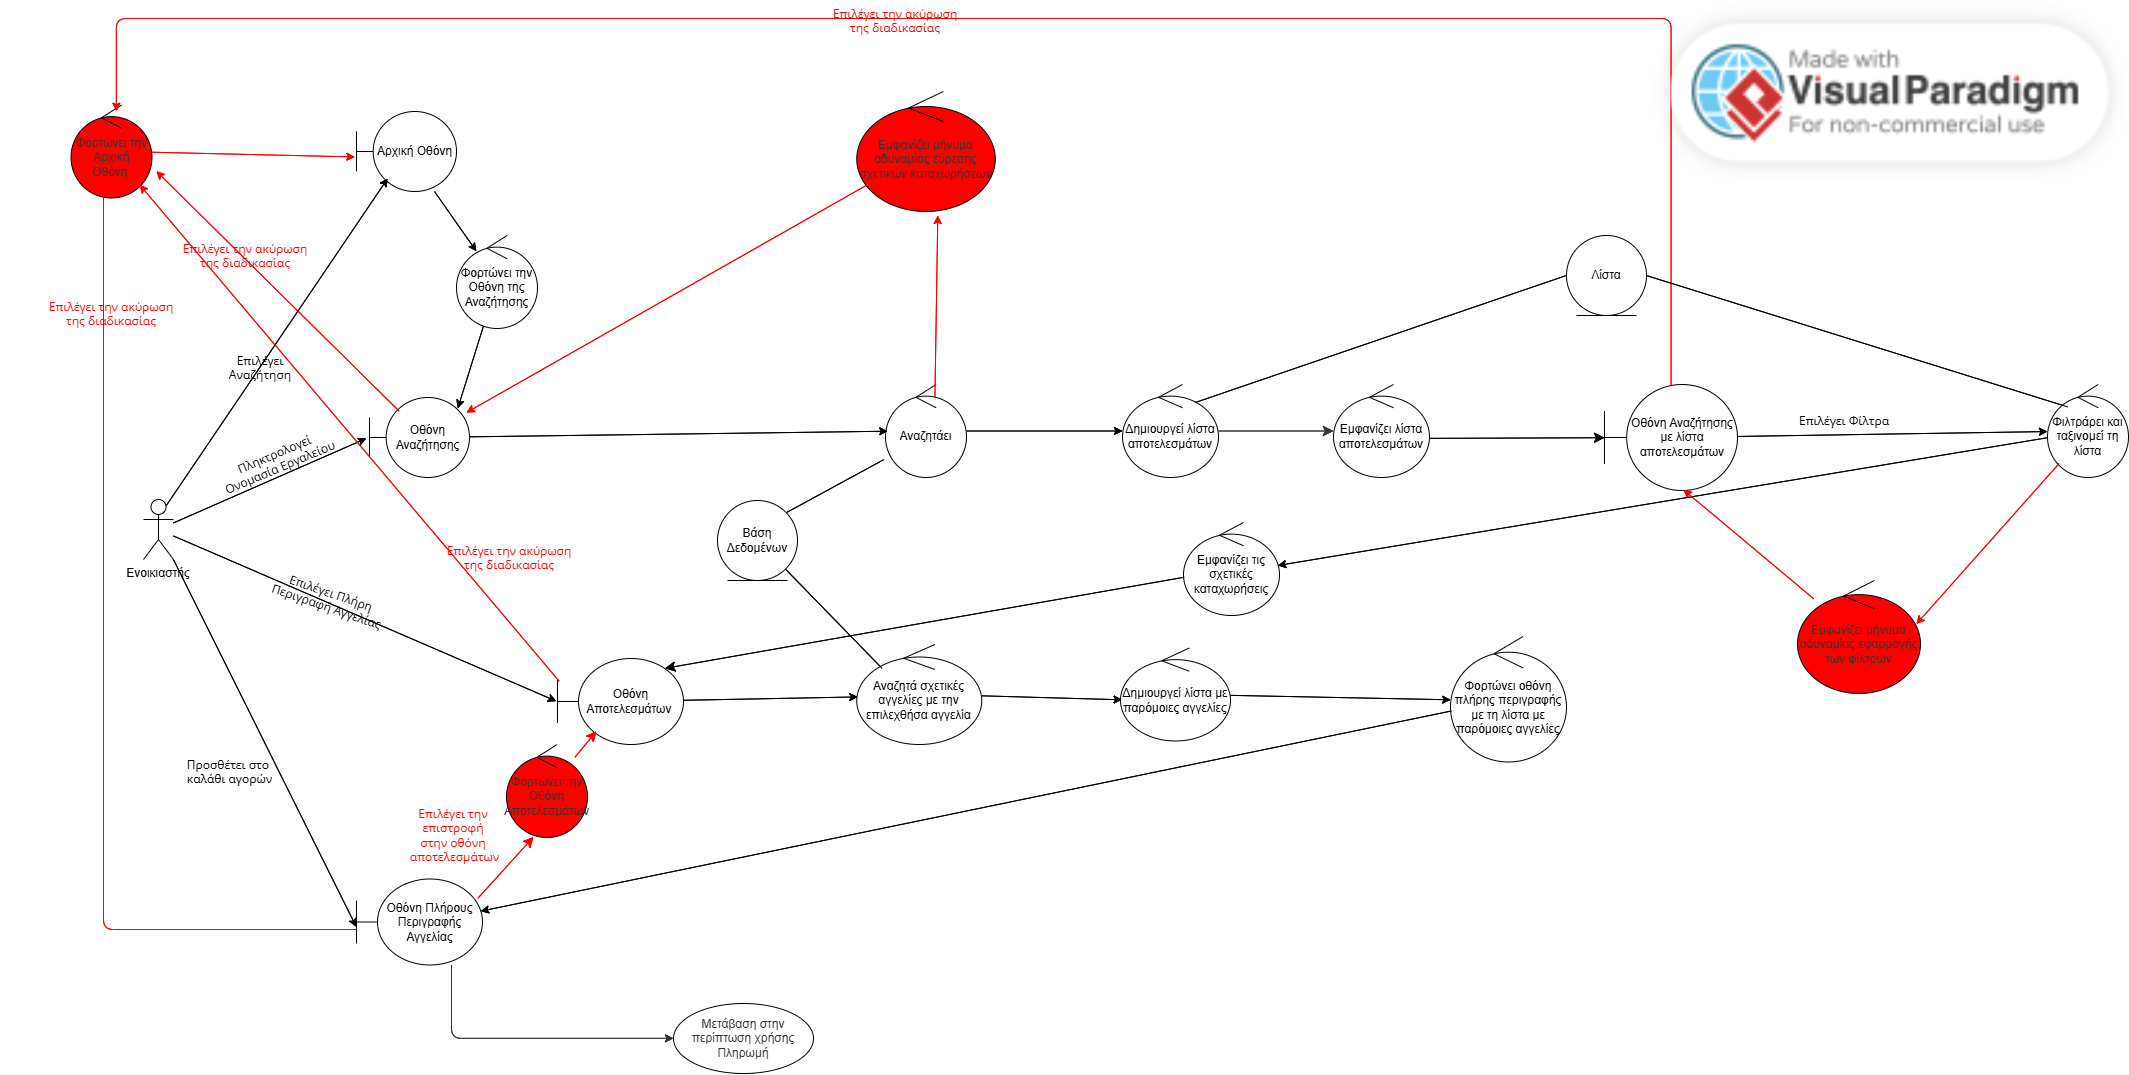
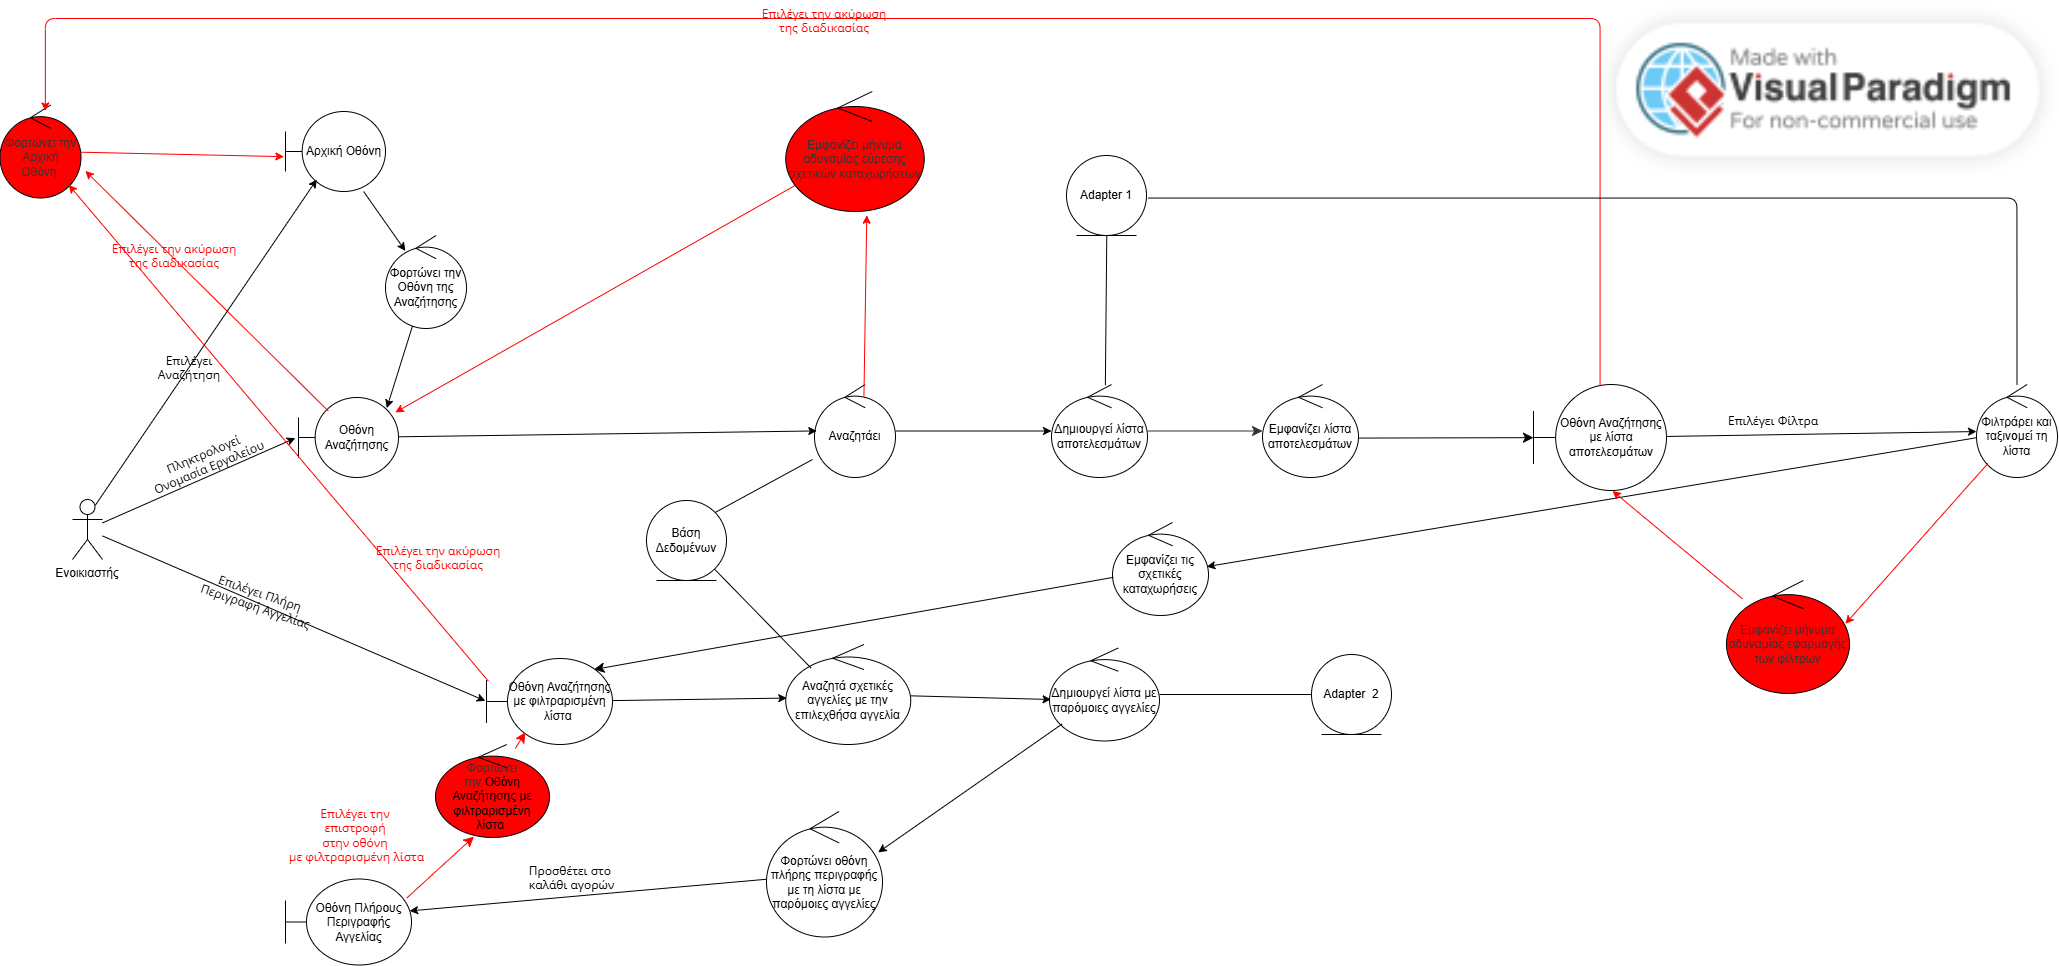
UC search -> uc, seq and robust

diff --git a/v0.3/UC_Premium/use_case.md b/v0.3/UC_Premium/use_case.md
@@ -2,7 +2,7 @@
 
 Βήματα Happy Path:
 1.  Ο ιδιοκτήτης επιλέγει το premium plan
-2.  Το σύστημα εμφανίζει τις παροχές του Premium Plan, δηλαδή Προτεραιότητα στις καταχωρήσεις (Listing Boost), Δυνατότητα προσθήκης περισσότερων εικόνων, Πρόσβαση σε analytics (προβολές, ενοικιάσεις, engagement) και Αυτόματη ανανέωση των αγγελιών
+2.  Το σύστημα εμφανίζει τις παροχές του Premium Plan, δηλαδή Προτεραιότητα στις καταχωρήσεις (Listing Boost), Δυνατότητα προσθήκης περισσότερων εικόνων, Πρόσβαση σε analytics (προβολές, ενοικιάσεις, engagement) και Αυτόματη Ανανέωση των αγγελιών
 3.  Ο ιδιοκτήτης επιλέγει την απόκτηση του πακέτου 
 4.  Το σύστημα εμφανίζει την επιλογή της διάρκεια του συνδρομητικού πλάνου (μήνας, τρίμηνο, έτος)
 5.  Ο ιδιοκτήτης επιλέγει την διάρκεια που επιθυμεί και την απόκτηση του premium plan

diff --git a/v0.3/UC_search/use_case.md b/v0.3/UC_search/use_case.md
@@ -26,7 +26,3 @@
 2.3.1 Το σύστημα αδυνατεί να κάνει αναδιάταξη των σχετικών εγγραφών, καθώς καμία δεν πληρή τα φίλτρα και ενημερώνει το χρήστη για την αδυναμία εύρεσης αποτελεσμάτων με βάση τα επιλεγμένα φίλτρα
 2.3.2 Επιστροφή στο βήμα 6 της βασικής ροής
 
-4. Καμία Αγορά (από το βήμα 11 της βασικής)
-2.4.1 Ο ενοικιαστής επιλέγει την επιστροφή στην σελίδα αναζήτησης 
-2.4.2 Το σύστημα μεταβιβάζει το χρήστη στην σελίδα αναζήτησης
-2.4.3 Μετάβαση στο βήμα 8 του βασικής ροής
